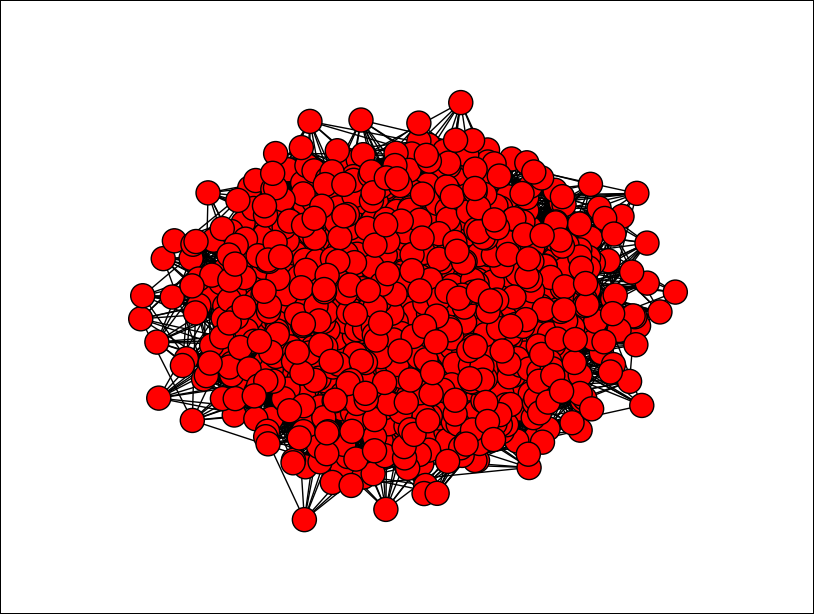
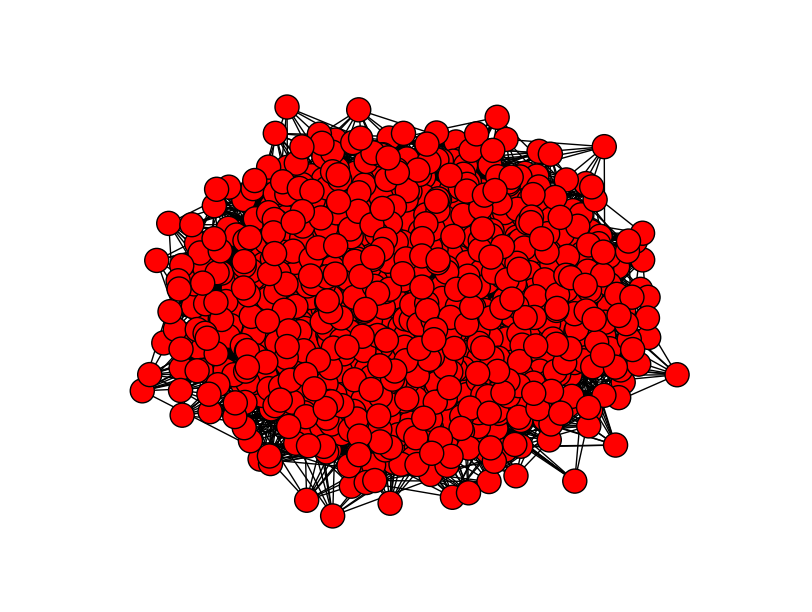
Editing visualization page

Changed region(s): [[0.1539, 0.1242, 0.8621, 0.8693], [0.0, 0.9935, 1.0, 1.0], [0.9852, 0.0, 1.0, 0.031]]

diff --git a/docs/visualization.md b/docs/visualization.md
@@ -104,21 +104,39 @@ You can also visualize the networks you've created using [Networkx](https://netw
 
 `pip install networkx`
 
-You now have Networkx installed on your computer! To create a graph of your network after running a simulation, enter Python by typing in the command:
+You now have Networkx installed on your computer!
+
+### Plotting Your Network
+
+To create a graph of your network after running a simulation, enter Python by typing in the command:
 
 `python`
 
 In Python, type in the following to create a graph of your network:
 
-`import matplotlib.pyplot as plt`
+```python
+import matplotlib.pyplot as plt`
+```
 
-`import networkx as nx`
+```python
+import networkx as nx`
+```
 
-`G = nx.read_edgelist('output/network.dat')`
+```python
+G = nx.read_edgelist('output/network.dat')`
+```
 
-`nx.draw(G)`
+```python
+pos = nx.spring_layout(G,iterations=75)`
+```
 
-`plt.show()`
+```python
+nx.draw(G,pos)`
+```
+
+```python
+plt.show()`
+```
 
 This will produce a plot similar to the one below:
 
@@ -128,10 +146,88 @@ This will produce a plot similar to the one below:
 
 Similar to our visualizations using Gephi, the red nodes in the above graph correspond to agents and the black edges in between them correspond to connections/followings between agents, though it is important to note that there is no way to distinguish between the different agent types via this method.
 
+### Analyzing Your Network
+
+You can also use Networkx for analysis of your graph. Here we will outline some of the various commands you can input into Python after yplotting yout graph to collect some information on your network.
+
+#### Number of Nodes
+
+You can find the number of nodes present in your network by typing the command:
+
+```python
+nx.number_of_nodes(G)`
+```
+
+#### Number of Edges
+
+You can find the number of edges in your network by entering the command:
+
+```python
+nx.number_of_edges(G)`
+```
+
+#### Most Popular Agent
+
+To find the most connected agent and it's corresponding cumulative-degree, enter in the commands:
+
+```python
+from operator import itemgetter`
+```
+
+```python
+sorted(G.degree_iter(),key=itemgetter(1),reverse=True)[0:1])`
+```
+
+This will print to the screen (though with most likely different values):
+
+```python
+[(u'938', 35)]
+```
+
+where in this case, '938' corresponds to the ID of the most connected agent and '35' corresponds to the cumulative-degree of this agent.
+
+#### Most Common Cumulative-Degree
+
+You can find the most common cumulative-degree of agents in the network and the number of agents with that cumulative-degree by entering in the command:
+
+```python
+max(enumerate(nx.degree_histogram(G)), key=itemgetter(1)))
+```
+
+This will print to the screen (though with most likely different values):
+
+```python
+(20, 90)
+```
+
+where '20' corresponds to the most common cumulative-degree and 90 corresponds to the number of agents with that cumulative-degree.
+
+#### Graph Density
+
+A dense graph is one in which the number of edges in a network are very close to their maximum value. You can calculate the graph density for your network by typing in the command:
+
+```python
+nx.density(G)
+```
+
+The maximum graph density has a value of 1 and the minimum graph density has a value of 0.
+
+#### Average Shortest Path Length
+
+The average shortest path length is the shortest number of edges on average between any two nodes in the network. You can calculate this value for your network by inputting the command:
+
+```python
+nx.average_shortest_path_length(G))
+```
+
+### visualize.py
+
 You can visualize your networks using the above manner by running the script in the **hashkat** directory *visualize.py* by entering the command after running a network simulation:
 
 `./visualize.py`
 
-Running this script will not only produce a plot of your network using Networkx, but it will also save that plot to a file named *graph.svg*.
+Running this script will not only produce a plot of your network using Networkx, but it will save that plot to a file named *graph.svg*, and run all of the analysis steps we discussed above 
+
+### Explore
 
 Though we discuss using Gephi in much greater detail in this documentation, you are encouraged to also analyze your networks using Networkx, to have a better understanding on all the ways in which you can analyze the data you've collected from running ***#k@***.
